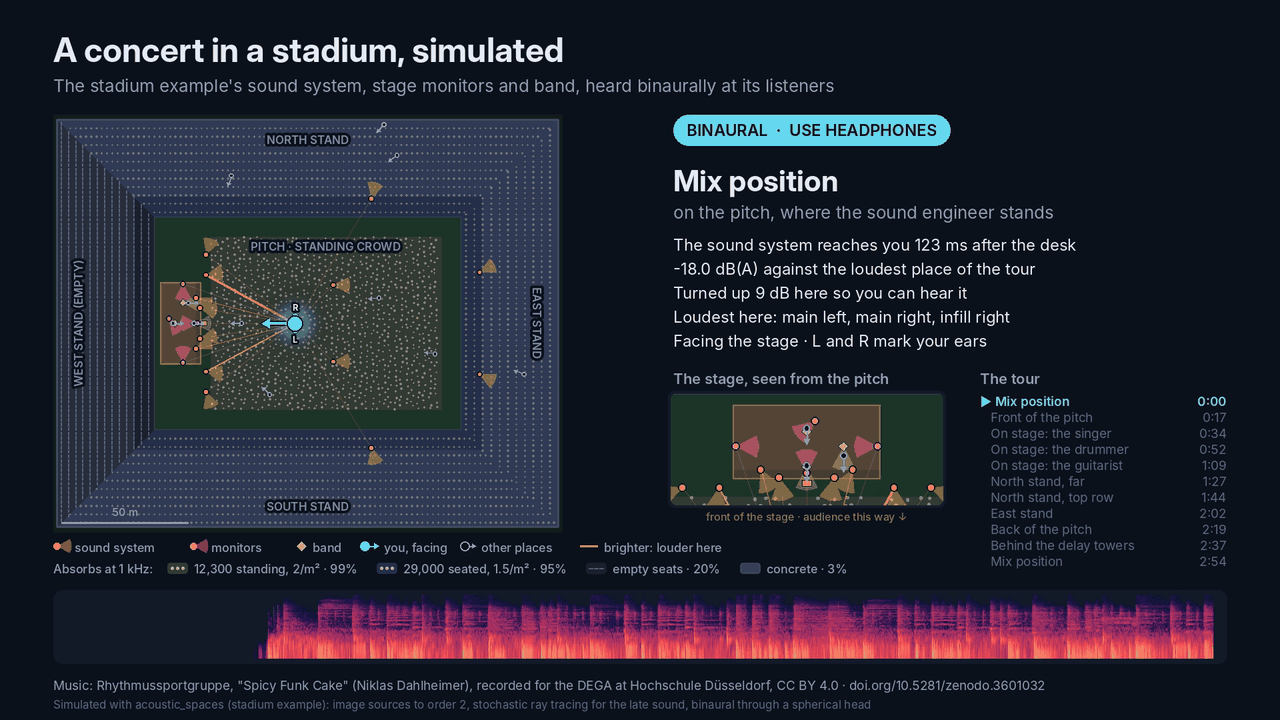
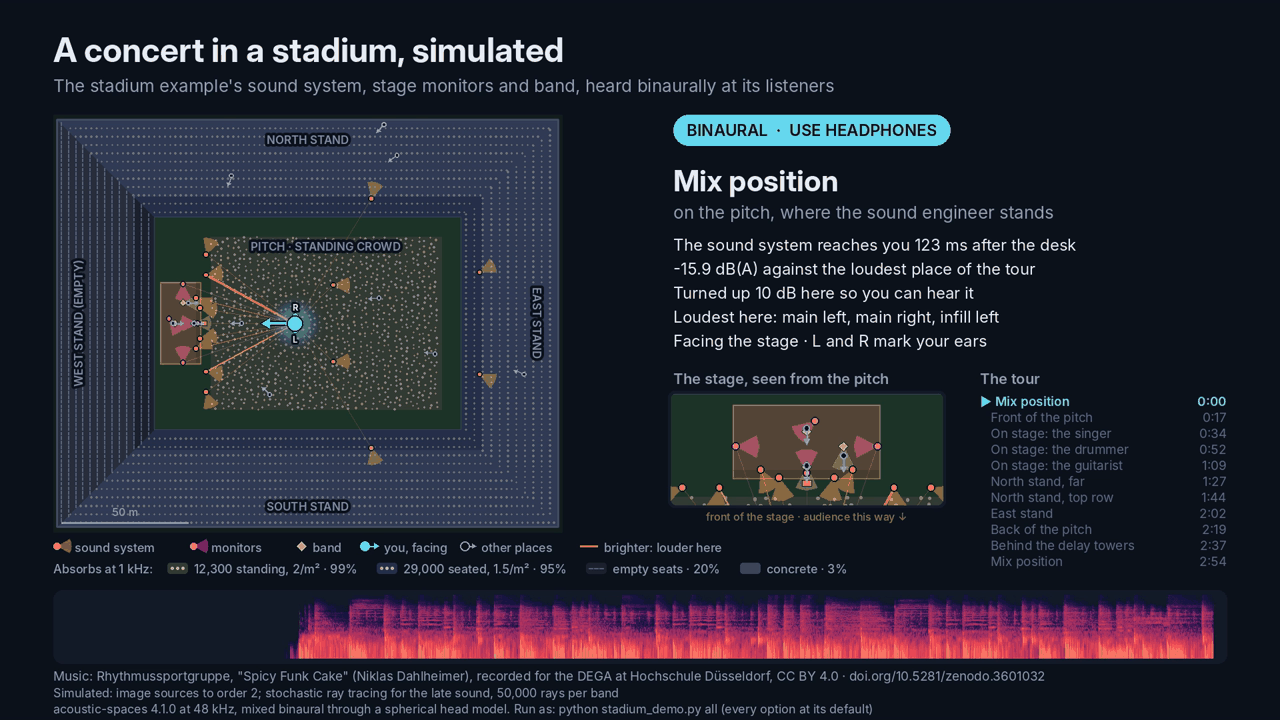
Refresh the stadium, helicopter and lakeside demo numbers; lengthen the flight's responses once
The three demos were run again on main with the BS.1770 meters and the
listener-side gather of the late part's first reflections. On stage it
is 6 to 18 dB(A) louder than in the audience (7 to 20 before) and the
mix position is 16 dB(A) below the singer's place (18); a second seed
moves these by 0.1 dB at most. Over three runs the lake's evening
weather lifts the bedroom window by 5.3 to 6.0 dB (7.1 before) and the
garden by 5.3 to 5.4 dB, and costs 0.5 to 0.7 dB behind the stage and
0.9 dB on the boat; the far shore is about 25 dB(A) under the audience.
The helicopter peaks at about 81 dB(A) at the mix position (74 from
330 m) as before; high in the north stand it peaks 8 to 11 dB lower over
two runs, where the sound is almost all late sound, which a few rays can
lift by several decibels at one place. The two doc pictures are frames
of the new videos, and the run times are of runs alone on 4 cores.

The helicopter demo's flight added the farthest distance to
ir_length_s, which the simulation already adds outdoors, so its
responses ran 6.1 s, not 4.0 s; the walk at the mix position now takes
121 s, not 174 s, at the same level. The lakeside's 3.5 s are said to
count from the far shore's direct sound, as they do (5.2 s in all).

Assisted-by: Claude Code

Changed region(s): [[0.0312, 0.825, 0.9688, 1.0], [0.5938, 0.3972, 0.7812, 0.4583], [0.5312, 0.3667, 0.5625, 0.3972]]

diff --git a/examples/stadium_concert/helicopter_demo.py b/examples/stadium_concert/helicopter_demo.py
@@ -142,9 +142,10 @@ def flight_of(helicopter: dict, height_m: float | None) -> dict:
 
 def flight(args) -> None:
     """``--flight`` (scene_flight.yaml) from ``--stadium`` (scene.yaml): the stadium with
-    its helicopter at ``--height``, the ground and the sky widened to take its walk, and
-    the responses as much longer as the helicopter is farther than the stage, so that
-    each keeps the decay after its sound arrives."""
+    its helicopter at ``--height``, the ground and the sky widened to take its walk. The
+    responses keep the scene's ``ir_length_s``: outdoors the simulation counts it from
+    the latest direct sound (:func:`acoustic_spaces.engine.simulate.response_length`), so
+    each keeps the stadium's decay after the helicopter's sound arrives."""
     from acoustic_spaces.air import speed_of_sound
     from acoustic_spaces.scene import Scene
 
@@ -166,16 +167,14 @@ def flight(args) -> None:
     )
     farthest = float(np.linalg.norm(places[:, None, :] - listeners[None, :, :], axis=2).max())
     scene = Scene.from_yaml(args.stadium)  # what the file leaves out at its defaults
-    c = speed_of_sound(scene.air.temperature_c)
-    length = scene.simulation.ir_length_s + farthest / c
-    simulation = data.setdefault("simulation", {})
-    simulation["ir_length_s"] = math.ceil(length * 10.0) / 10.0
+    tail = scene.simulation.ir_length_s
+    length = farthest / speed_of_sound(scene.air.temperature_c) + tail
     data["sources"] = [helicopter if s.get("name") == HELICOPTER else s for s in data["sources"]]
     pipeline.write_scene(args.source, data, FLIGHT_HEADER, args.stadium.parent)
     span = float(np.linalg.norm(np.diff(places, axis=0), axis=1).sum())
     print(
         f"wrote {args.source}: the helicopter {places[:, 2].min():g} m up, {span:g} m over the "
-        f"stadium; responses {simulation['ir_length_s']:g} s long"
+        f"stadium; responses {length:.1f} s long ({tail:g} s past the latest direct sound)"
     )
 
 

diff --git a/examples/lakeside_concert/lakeside_demo.py b/examples/lakeside_concert/lakeside_demo.py
@@ -32,7 +32,7 @@ tour moves every 8 bars of the tempo given, and the video credits the file by it
 unless `--credit` says what to show. The editor runs the same steps from Simulation >
 Run demo…
 
-From the audience to the far shore the sound drops by 24 to 25 dB(A), too much to
+From the audience to the far shore the sound drops by about 25 dB(A), too much to
 hear the far places in a video. So each stop of the tour is brought to the same loudness
 (K-weighted, as loudness meters weigh it) as the audience's, and its caption says how
 much quieter it really is. The window in still air keeps the gain of the window in the
@@ -96,7 +96,8 @@ CHANNELS = {"main_left": 0, "main_right": 1, "subs": "mono"}
 #: The scene's listener behind the stage, as far upwind as the park reaches, left out of
 #: its own simulations.
 UPWIND = "behind_stage"
-#: How long the responses run: the far shore hears the stage 1.6 s late.
+#: How long the responses run past the latest direct sound, the far shore's, 1.6 s late:
+#: outdoors the simulation counts ``ir_length_s`` from there (5.2 s in all).
 IR_LENGTH_S = 3.5
 
 #: The default tour: listener, weather ("evening" or "still") and how many phrases it

diff --git a/tests/test_flyover.py b/tests/test_flyover.py
@@ -287,9 +287,8 @@ def test_the_helicopter_crosses_over_the_concert(tmp_path: Path) -> None:
     assert helicopter["walk"] == {"to": [[600, 0, 150]], "speed_m_s": 63, "doppler": True}
     lower = sibling(folder / "helicopter_demo.py", "helicopter_demo").flight_of(own, 40.0)
     assert lower["position"] == [-600.0, 0.0, 40.0] and lower["walk"]["to"] == [[600.0, 0.0, 40.0]]
-    farthest = max(math.dist((600.0, 0.0, 150.0), lis["position"]) for lis in flown["listeners"])
-    later = math.ceil((0.3 + farthest / speed_of_sound(20.0)) * 10.0) / 10.0
-    assert flown["simulation"]["ir_length_s"] == later
+    # The stadium's length: outdoors the simulation counts it from the latest direct sound.
+    assert flown["simulation"] == stadium_scene["simulation"]
     resolved = demo.resolved(args)
     assert demo.step("flight").done(resolved)
     assert not demo.step("flight").done(argparse.Namespace(**vars(resolved) | {"height": 400.0}))

diff --git a/examples/stadium_concert/stadium_demo.py b/examples/stadium_concert/stadium_demo.py
@@ -53,7 +53,7 @@ the monitors is the scene's, and the feed files are what each loudspeaker plays.
 bars), with a 1 s crossfade. Each listener's mix is shifted
 earlier by the time the sound system takes to reach them (0.1 s at the mix position,
 0.4 s at the far end), so that the beat carries on across the cut; the caption gives
-that time and the level there against the loudest listener's. On stage it is 7 to 20
+that time and the level there against the loudest listener's. On stage it is 6 to 18
 dB(A) louder than in the audience, too much to hear both in one video, so each stop is
 turned up to the loudness of the loudest one (K-weighted, as loudness meters weigh it)
 and its caption says by how much; the mixes in demo/seats keep one gain for all.

diff --git a/docs/demos.md b/docs/demos.md
@@ -421,9 +421,9 @@ Software-Entwicklungskit released with their stems.
 acoustic-spaces examples --copy . stadium_concert && cd stadium_concert
 python stadium_demo.py music     # the reference mix and 7 stems (WAV, 313 MB to download)
 python stadium_demo.py band      # scene_band.yaml: the scene with the band on the stage
-acoustic-spaces simulate scene_band.yaml --out results_band --output binaural   # ~3 min on 4 cores
+acoustic-spaces simulate scene_band.yaml --out results_band --output binaural   # ~2.5 min on 4 cores
 python stadium_demo.py feeds     # demo/feeds: one WAV per loudspeaker and player
-python stadium_demo.py render    # demo/seats: one binaural WAV per listener (~1 min each)
+python stadium_demo.py render    # demo/seats: one binaural WAV per listener (~30 s each)
 python stadium_demo.py video     # demo/tour.wav, demo/stills, demo/tour.mp4, demo/thumbnail.png
 ```
 
@@ -432,8 +432,8 @@ demo_francium` for a folder of its own), `--tour mix_position:1,singer:0.5,east_
 (listener:phrases of 8 bars, 0.5 for 4; the last one runs to the end), `--listeners
 mix_position,east_stand` (those listeners alone, in `render` and `video`), `--format`
 for another output the simulation wrote (the tour [decodes it to two
-ears](#running-a-demo)), `--no-mp4` for the audio and stills only. `all` runs music,
-feeds, render and video; `band` and the simulation come before it.
+ears](#running-a-demo)), `--no-mp4` for the audio and stills only. `all` runs every
+step in turn, leaving out what is there already (the music, the scene, the simulation).
 
 A song of your own plays in place of the presets: `--music song.wav --bpm 120` for
 `music` and `feeds` (and `all`), the master as a stereo file (WAV, or anything ffmpeg
@@ -470,8 +470,8 @@ music goes to `demo/music/<file name>`, a folder of its own beside the presets',
 - **One gain for all listeners, then each stop turned up.** `render` scales the 12 mixes
   by one gain (the loudest peak at -1 dBFS), so the level differences between places in
   `demo/seats` are the simulation's: on stage, between the monitors and beside the drum
-  kit, it is 7 to 20 dB(A) louder than in the audience, and the mix position is
-  18 dB(A) below the singer's place. That is too much to hear both in one video, so the
+  kit, it is 6 to 18 dB(A) louder than in the audience, and the mix position is
+  16 dB(A) below the singer's place. That is too much to hear both in one video, so the
   tour turns each stop up to the loudness of the loudest one and its caption gives the
   real level and how much it was turned up. Loudness is weighted as loudness meters
   weigh it (K, ITU-R BS.1770), which counts the subwoofers' bass that the A weighting of
@@ -552,8 +552,8 @@ makes is heard.
 acoustic-spaces examples --copy . lakeside_concert && cd lakeside_concert
 python lakeside_demo.py music    # the song (WAV, 56 MB), a signal for each loudspeaker
 python lakeside_demo.py scenes   # scene_demo.yaml, and scene_still.yaml in still air
-acoustic-spaces simulate scene_demo.yaml --out results_demo --output binaural    # ~30 s
-acoustic-spaces simulate scene_still.yaml --out results_still --output binaural  # ~15 s
+acoustic-spaces simulate scene_demo.yaml --out results_demo --output binaural    # ~20 s
+acoustic-spaces simulate scene_still.yaml --out results_still --output binaural  # ~13 s
 python lakeside_demo.py render   # demo/seats: every listener in both weathers
 python lakeside_demo.py video    # demo/tour.wav, demo/stills, demo/tour.mp4, demo/thumbnail.png
 ```
@@ -566,8 +566,8 @@ what to show), `--tour bedroom_window:still:1,audience::2` (listener:weather:phr
 8 bars), `--listeners audience,bedroom_window` (those places alone, in both weathers),
 `--last-phrases` (how long the last stop lasts, 0 to the end of the song; 2 by default),
 `--format` for another output the simulation wrote (the tour [decodes it to two
-ears](#running-a-demo)), `--no-mp4` for the audio and stills only. `all` runs music,
-render and video; `scenes` and the two simulations come before it.
+ears](#running-a-demo)), `--no-mp4` for the audio and stills only. `all` runs every
+step in turn, leaving out what is there already (the music, the scenes, the simulations).
 
 - **The sound system.** `scenes` plays, in place of the example's single source (120 dB
   sound power), the example's PA group, left out of its own simulations until ticked: a
@@ -583,27 +583,28 @@ render and video; `scenes` and the two simulations come before it.
   mids up, their top octave up for the air): at 30 m every octave from 250 Hz to 4 kHz is
   within 1 dB of 1 kHz, 8 kHz 1.5 dB down and 63 and 125 Hz 2 dB up. `scenes` also takes
   in the example's listener 140 m behind the stage, upwind (`behind_stage`, left out as
-  the system is), and lets the responses run 3.5 s, as the far shore hears the stage
-  1.6 s late.
+  the system is), and lets the responses run 3.5 s past the latest direct sound, the far
+  shore's, 1.6 s late (5.2 s in all).
 - **The weather** is the example's: a breeze from the park out over the lake, 2.5 m/s
   10 m up, and two weather zones, the lake's (air 17 °C at the water, a degree warmer
   every 10 m up, and a 3.5 m/s breeze) and the village's (a 1 m/s breeze among the
   houses). The breeze and the cool air bend the sound down to the water, which gives it
   back almost whole. `scene_still.yaml` is the same scene with no atmosphere.
-- **What it gives.** At the bedroom window the evening's weather makes the song 7.1 dB(A)
-  louder than still air would, in the garden 5.3 dB; behind the stage, upwind, it is
-  0.5 dB quieter, and on the boat 1.0 dB quieter. The window gains most: what the
-  weather bends down comes in off the water as well as straight, and the house's wall
-  beside the window gives back each of those again.
-- **How loud.** From the audience to the far shore the sound drops by 24 to 25 dB(A),
+- **What it gives.** At the bedroom window the evening's weather makes the song 5.3 to
+  6.0 dB(A) louder than still air would, in the garden 5.3 to 5.4 dB; behind the stage,
+  upwind, it is 0.5 to 0.7 dB quieter, and on the boat 0.9 dB quieter (three runs, each
+  with rays of its own). The far shore gains most: what the weather bends down comes in
+  off the water as well as straight, and at the window the house's wall gives back each
+  of those again.
+- **How loud.** From the audience to the far shore the sound drops by about 25 dB(A),
   too much to hear the far places in a video, so each stop is turned up to the
   audience's loudness and its caption says how much quieter the place really is, in
   dB(A). The loudness is K-weighted, as meters weigh it, not A-weighted: the far places
   and the back of the stage keep little but bass (the array boxes radiate every way below
   250 Hz and the water gives the low end back whole), which the A weighting all but
   leaves out, so matching dB(A) would put their bass far above the audience's. The window
-  in still air keeps the gain of the window in the evening's weather, so the 7.1 dB is
-  heard.
+  in still air keeps the gain of the window in the evening's weather, so the difference
+  the weather makes is heard.
 - **The cuts.** Each place's mix is shifted earlier by the time the loudest sound takes
   to reach it (the peak of the energy of its responses: 0.09 s in the audience, 1.66 s
   at the window), so that the beat runs on across each 1 s crossfade, every 8 bars.
@@ -1199,8 +1200,8 @@ as the scene has it), `--at 180` when it is over the centre
 spot, in seconds into the song as the sound system plays it (by default halfway
 through); `--speed`, `--broadband`, `--step` and `--input helicopter=WAV` as in the
 flyover demo, and `--tour` and `--listeners` as in the stadium demo (the helicopter is
-then simulated at those listeners alone, over the concert's mixes there). At the mix position the walk takes 3.3 minutes on 4
-cores, most of it playing the 301 places through with Doppler, so some 40 for the 12
+then simulated at those listeners alone, over the concert's mixes there). At the mix position the walk takes 2 minutes on 4
+cores, half of it playing the 301 places through with Doppler, so some 25 for the 12
 listeners.
 
 - **The flight.** The stadium's scene has the helicopter, left out of the concert's own
@@ -1212,9 +1213,10 @@ listeners.
   given leave may. Without leave the EU's rules of the air keep a flight by sight (VFR)
   over an open-air assembly of persons 300 m above the highest obstacle within 600 m
   (SERA.5005(f)), here the stadium's roof, 30 m up: `--height 330`. The ground and the
-  sky are widened to take the flight, and the responses are as much longer as the
-  helicopter is farther than the stage (4.1 s against the concert's 2.0 s), so each
-  keeps the stadium's decay after the helicopter's sound arrives.
+  sky are widened to take the flight; the responses run the scene's 2.0 s past the
+  latest direct sound, as every outdoor response does (4.0 s in all, against the
+  concert's 2.7 s), so each keeps the stadium's decay after the helicopter's sound
+  arrives.
 - **The helicopter and its pass** are the flyover demo's steps on that scene:
   `helicopter` its rotors' sound, `scene` the helicopter alone (`scene_overhead.yaml`)
   with the sound power and the directivity of its rotors at 63 m/s through still air
@@ -1222,7 +1224,9 @@ listeners.
   each of the 12 listeners, with Doppler. At the mix position it peaks at about
   81 dB(A) (about 74 from 330 m), where the sound system's loudspeakers, simulated at
   their sound power, give 97 dB(A): it is some 15 dB under the music, heard most in the
-  song's quiet passages. High in the north stand, under the roof, it peaks 10 dB lower.
+  song's quiet passages. High in the north stand, under the roof, it peaks 8 to 11 dB
+  lower (two runs): the sound there is almost all late sound, which a few rays can lift
+  by several decibels at one place.
 - **The mix.** `mix` adds the helicopter's pass at each listener to the concert's mix
   there (`demo/seats`), the helicopter over the centre spot at `--at`. The feeds stand
   for the loudspeakers' sound power, a gated RMS of 0.1 for the loudest one's (the main

diff --git a/CHANGELOG.md b/CHANGELOG.md
@@ -20,6 +20,14 @@
 - Fixed: the Viking HRTF set is credited to Spagnol, Miccini and Unnthórsson of Aalborg
   University and the University of Iceland, and described as a KEMAR dummy head with one
   of 20 pairs of replica pinnae, or none; it read Reykjavík University and 20 people.
+- Fixed: the helicopter demo's `flight` lengthened the responses by the helicopter's
+  farthest distance, which the simulation already adds outdoors, so they ran 6.1 s, not
+  4.0 s; its walk at the mix position takes 121 s, not 174 s, at the same level (L_Amax
+  81.5 dB(A), 81.6 before).
+- Docs: the stadium, helicopter and lakeside demos' numbers and pictures come from new
+  runs with the BS.1770 meters: on stage it is 6 to 18 dB(A) louder than in the audience
+  (7 to 20 before), and the lake's weather lifts the bedroom window 5.3 to 6.0 dB over
+  three runs (7.1 before).
 - Docs: G of responses written with `simulate --normalize` takes the reference energy
   0.01 × `ir_gain`² (from `parameters.json`), and the JNDs of T20, T30 and C50 are
   ISO 3382-1's of EDT and C80 taken by analogy; Barron's total and the first batch of
